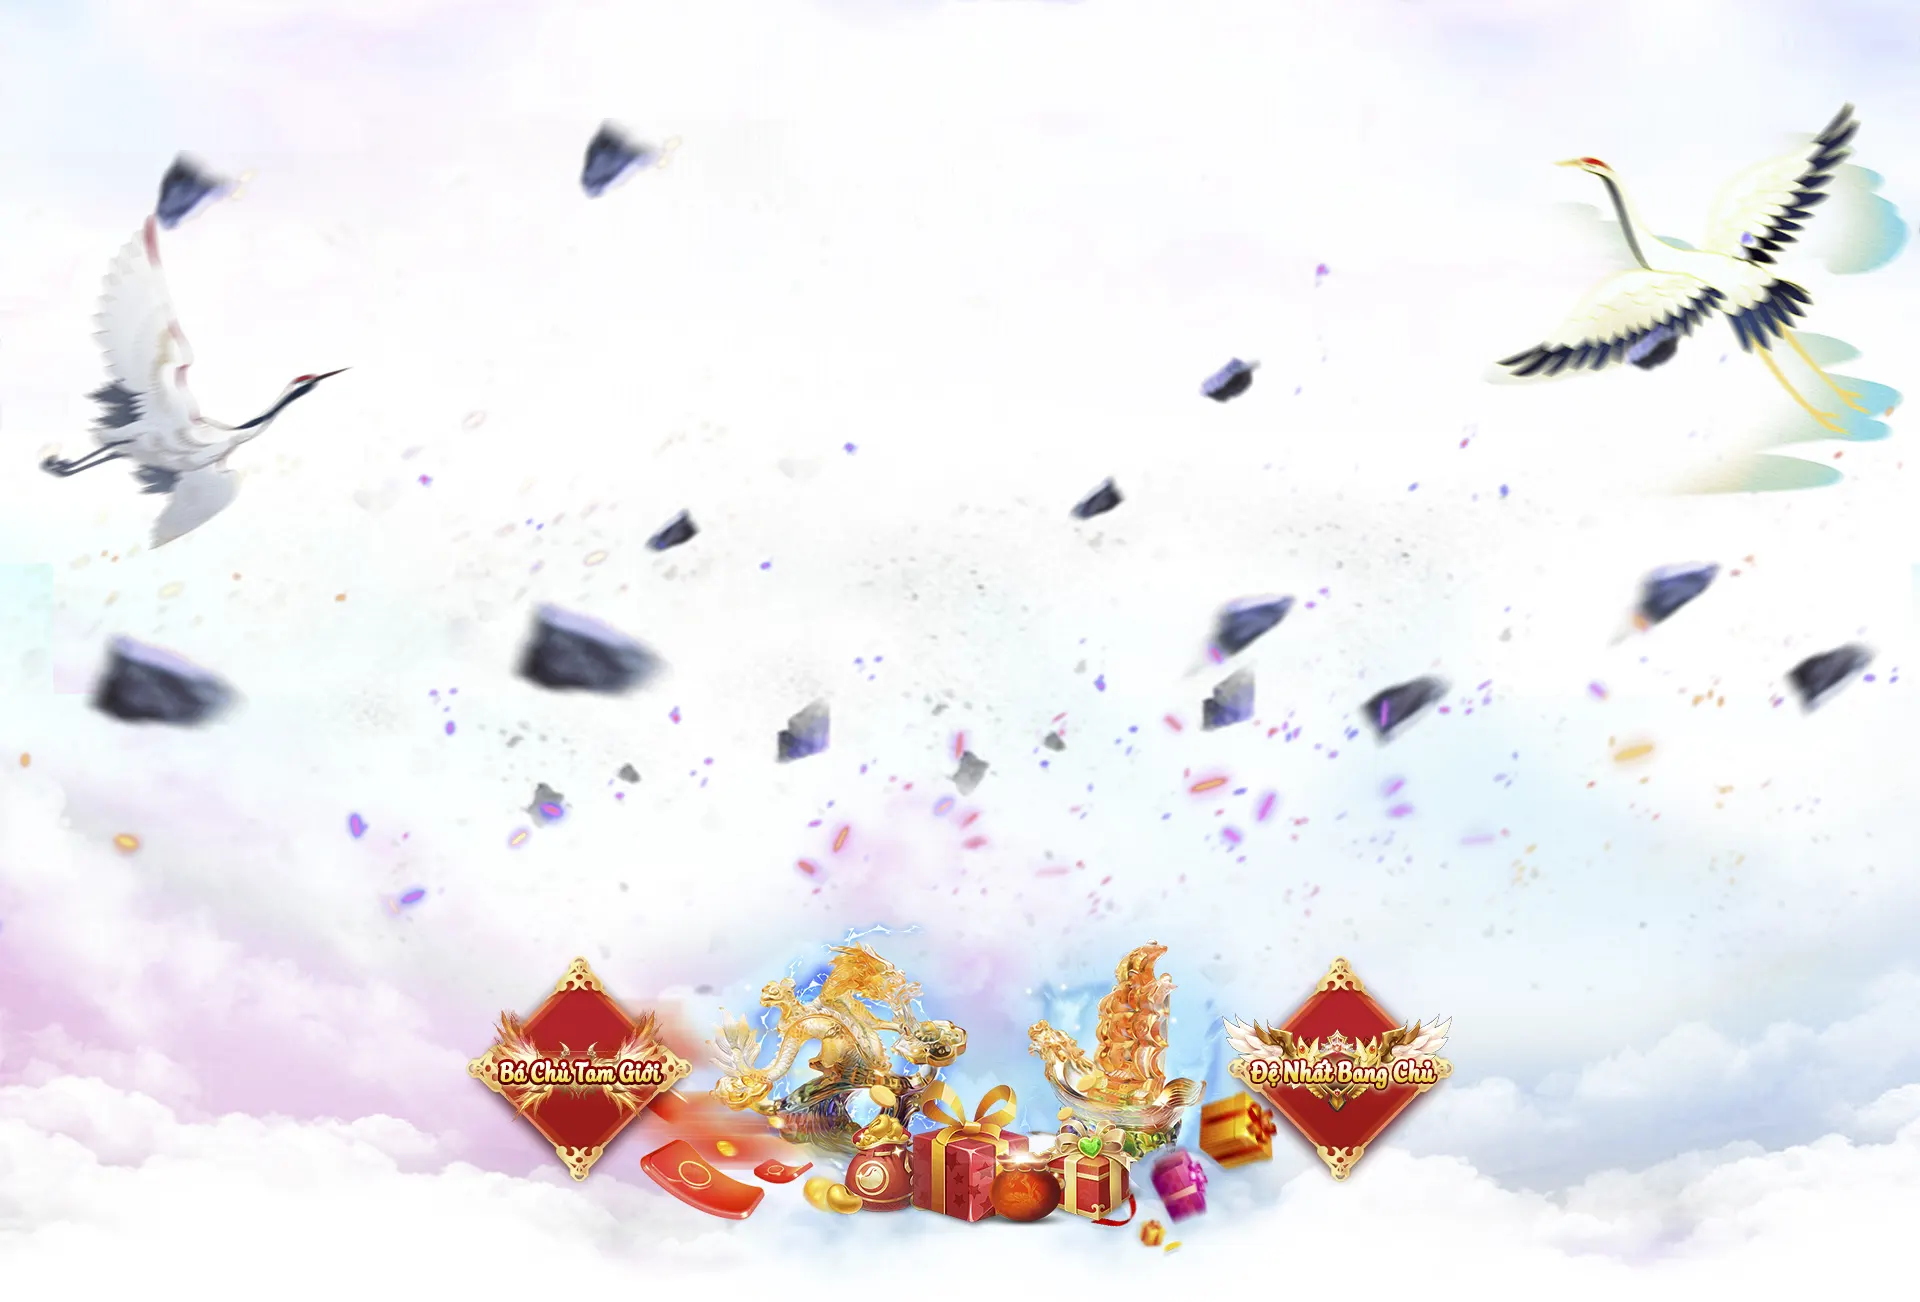
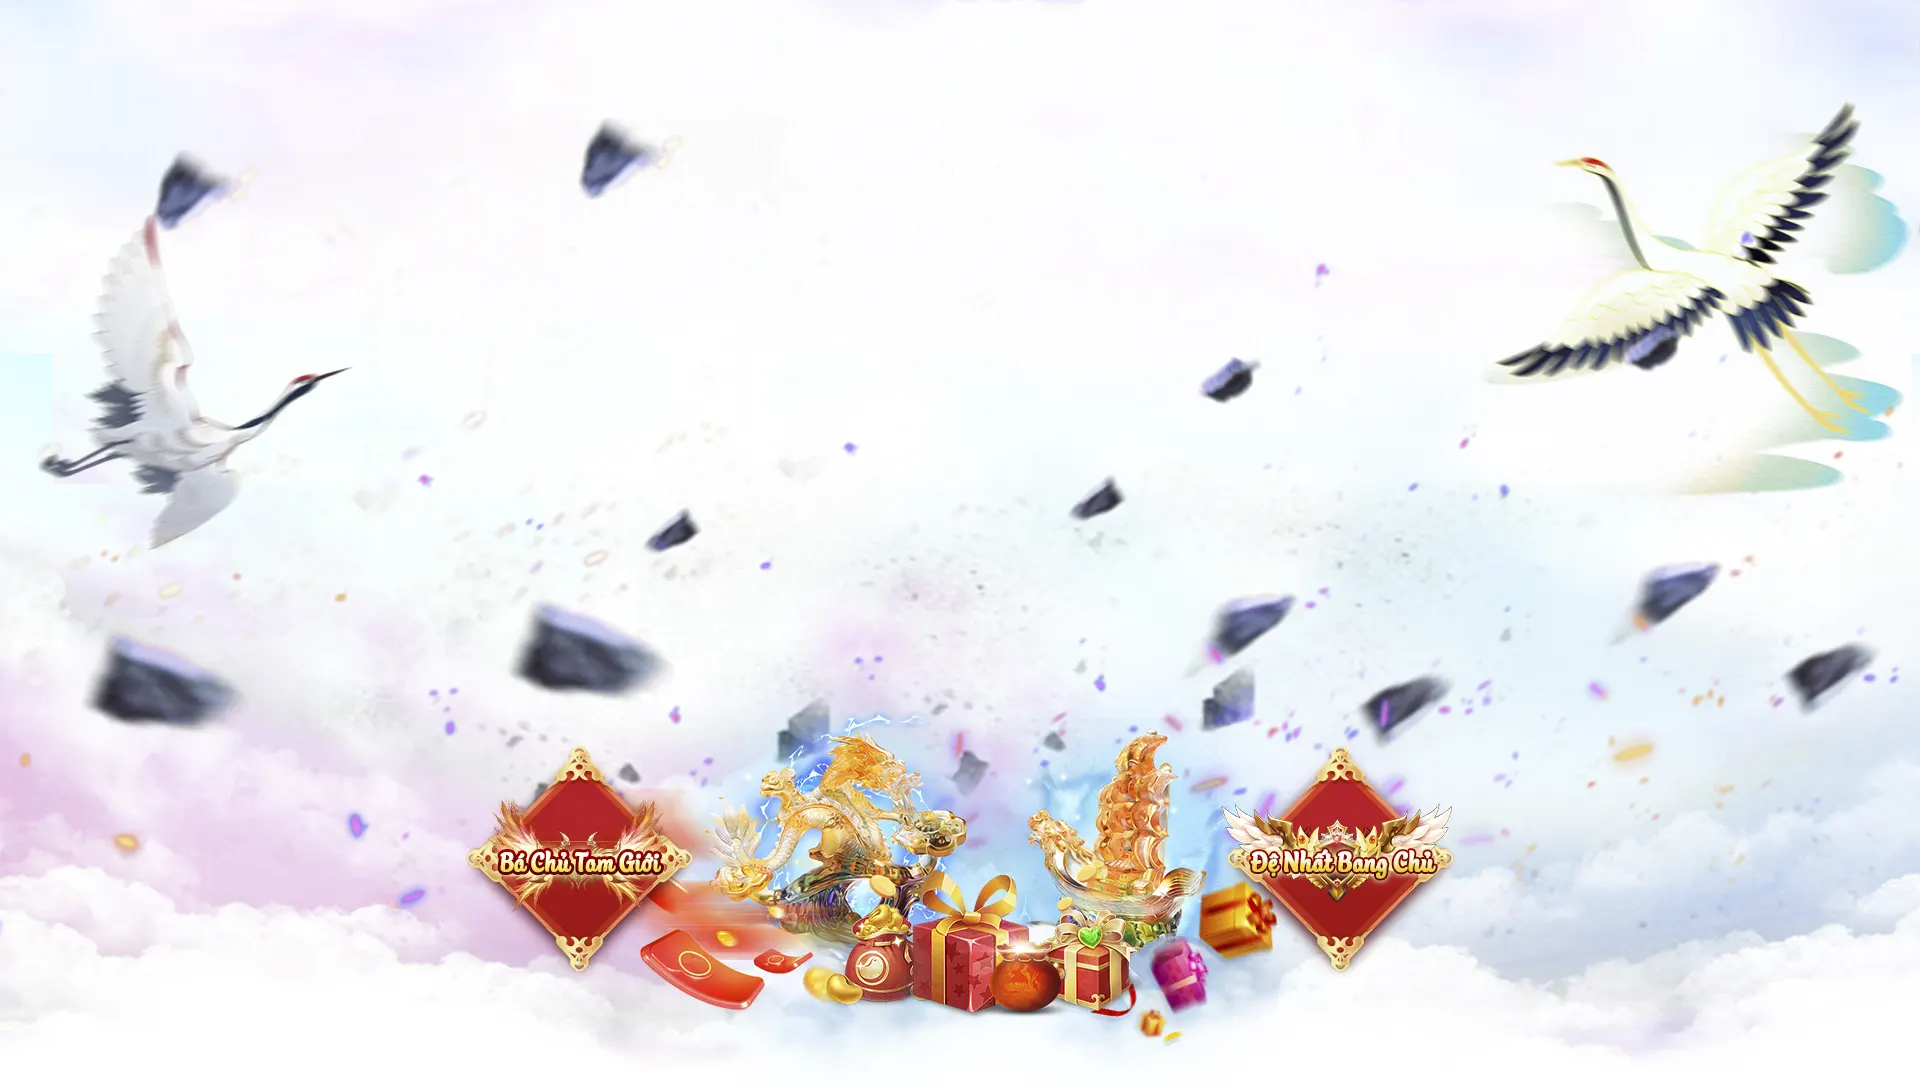
update bxh background

diff --git a/sass/9main-duatop.scss b/sass/9main-duatop.scss
@@ -83,10 +83,10 @@ main {position: relative;height: 100vh;}
 }
 
 /*==Bang xep hang====*/
-.bangxephang{width: 100%;height: 1301px;background: url(../images/bg-3.webp) no-repeat top center;
+.bangxephang{width: 100%;height: 1089px;background: url(../images/bg-3.webp) no-repeat top center;
   .container{
-    .khungbxh{position:relative;z-index: 15;background: url(../images/bg-bxh.webp) no-repeat top center;height: 1073px;width: 100%;padding-top:155px;
-      .khungin{width: 921px;height: 594px;margin-top: 55px;position: relative;
+    .khungbxh{position:relative;z-index: 15;background: url(../images/bg-bxh.webp) no-repeat top center;height: 1073px;width: 100%;padding-top:125px;
+      .khungin{width: 921px;height: 594px;margin-top:30px;position: relative;
         .nav{position: absolute;right:-190px;top:50px;
           button{width: 143px;height: 221px;text-indent: -9999px;margin-bottom:24px;transition:0.2s ease;filter: grayscale(1);
             &:nth-child(1){background: url(../images/btn-dtlc.webp) no-repeat top center;}

diff --git a/sass/9main-duatop.css b/sass/9main-duatop.css
@@ -520,7 +520,7 @@ main {
 /*==Bang xep hang====*/
 .bangxephang {
   width: 100%;
-  height: 1301px;
+  height: 1089px;
   background: url(../images/bg-3.webp) no-repeat top center;
 }
 
@@ -530,13 +530,13 @@ main {
   background: url(../images/bg-bxh.webp) no-repeat top center;
   height: 1073px;
   width: 100%;
-  padding-top: 155px;
+  padding-top: 125px;
 }
 
 .bangxephang .container .khungbxh .khungin {
   width: 921px;
   height: 594px;
-  margin-top: 55px;
+  margin-top: 30px;
   position: relative;
 }
 
